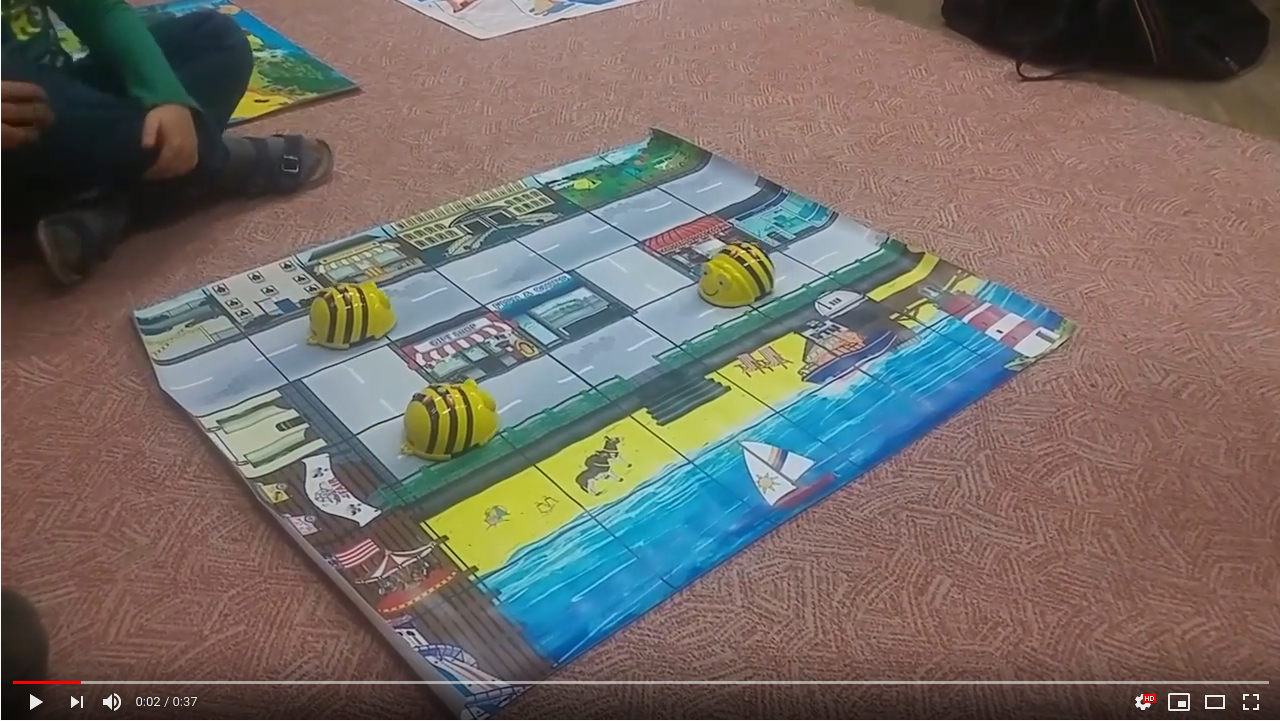
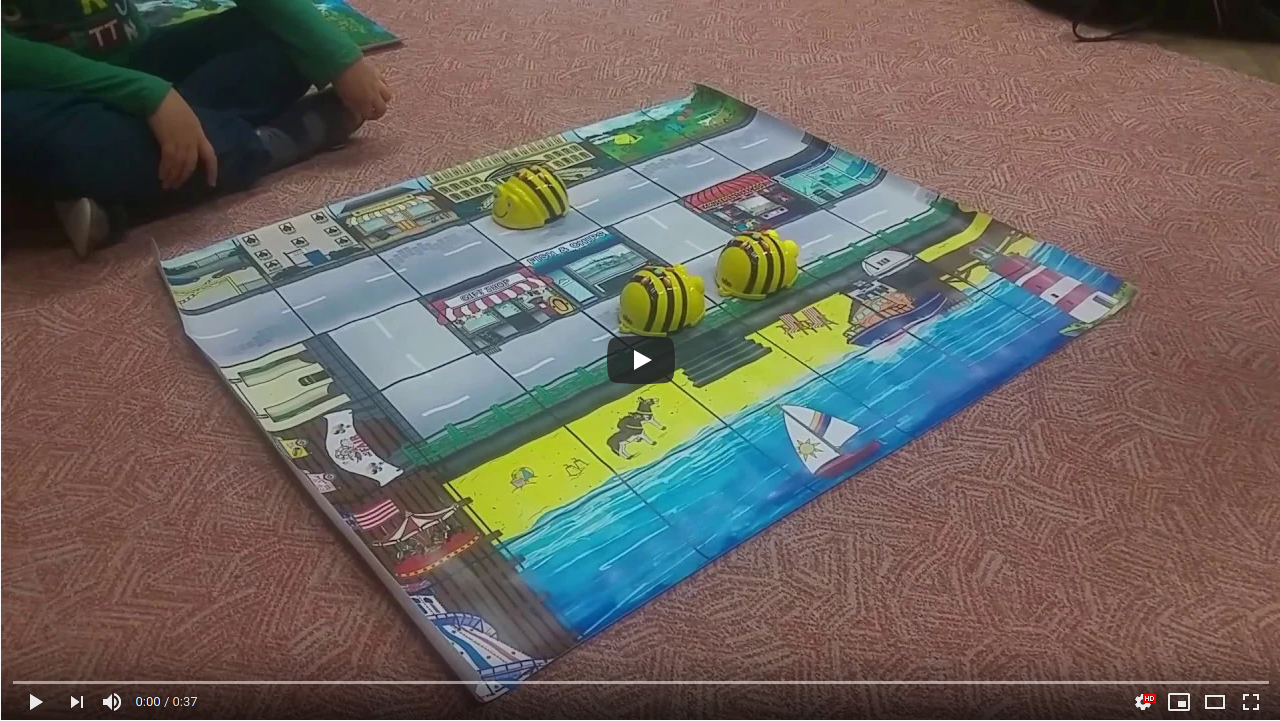
vlastni nahledy

diff --git a/README.md b/README.md
@@ -41,7 +41,7 @@ Ke Cubettovi se dodávají hrací plátna, po kterých se Cubetto může pohybov
 
 Cubetta je možno zakoupit buď od [vyuka-vzdelavani.cz](https://www.vyuka-vzdelavani.cz/cubetto.html). Existují i levnější hračky podobného principu, ale co jsem vyzkoušel, tak mají problémy s otočením o přesně 90°, takže po několika krocích jedou úplně mimo.
 
-[![Cubetto video](http://img.youtube.com/vi/JWHUiYpsbnI/0.jpg)](http://www.youtube.com/watch?v=JWHUiYpsbnI "Cubetto video")
+[![Cubetto video](images/CubettoVideo.png)](http://www.youtube.com/watch?v=JWHUiYpsbnI "Cubetto video")
 
 Na kroužcích se mi osvědčila práce ve dvojcích. Několik příkladů:
 
